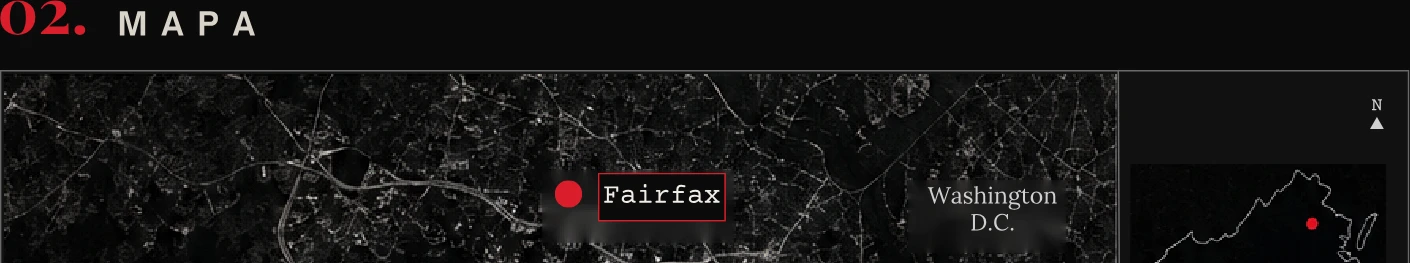
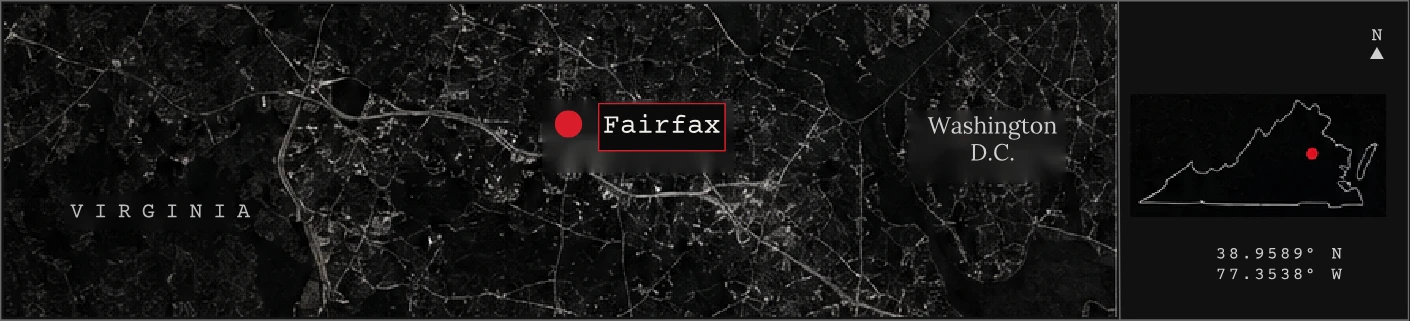
fix(banfield): use single PDF map panel instead of split figures.
Extract fig-mapa as one asset and publish one map block in the dossier reader.

diff --git a/scripts/test-banfield-html-figures.ts b/scripts/test-banfield-html-figures.ts
@@ -12,8 +12,8 @@ const assetsDir = path.join(
   "assets",
 );
 
-/** Crop v7: map-main ~908×349 — altura renderizada menor, ainda legível @390 */
-const MOBILE_MAP_MIN_HEIGHT_AT_358 = 130;
+/** Painel mapa único ~1410×321 — panorâmico, altura @358 ainda legível (~82px) */
+const MOBILE_MAP_MIN_HEIGHT_AT_358 = 78;
 /** Largura útil ~358px com bleed -mx-4 @390 viewport */
 const MOBILE_CONTENT_WIDTH = 358;
 
@@ -24,13 +24,12 @@ async function testFigureAssets() {
     "fig-portrait-brendan",
     "fig-portrait-juliana",
   ];
-  for (const id of [...portraitIds, "fig-vitimas", "fig-mapa-main", "fig-mapa-inset"]) {
+  for (const id of [...portraitIds, "fig-vitimas", "fig-mapa"]) {
     const p = path.join(assetsDir, `${id}.webp`);
     assert.ok(fs.existsSync(p), `${id}.webp deve existir`);
   }
 
-  const mapaMainPath = path.join(assetsDir, "fig-mapa-main.webp");
-  const mapaInsetPath = path.join(assetsDir, "fig-mapa-inset.webp");
+  const mapaPath = path.join(assetsDir, "fig-mapa.webp");
 
   for (const id of portraitIds) {
     const meta = await sharp(path.join(assetsDir, `${id}.webp`)).metadata();
@@ -40,25 +39,19 @@ async function testFigureAssets() {
     assert.ok(h >= 200 && h <= 215, `${id} height ${h}`);
   }
 
-  const mapaMain = await sharp(mapaMainPath).metadata();
-  const mapaInset = await sharp(mapaInsetPath).metadata();
-  const mmw = mapaMain.width ?? 0;
-  const mmh = mapaMain.height ?? 0;
-  const miw = mapaInset.width ?? 0;
-  const mih = mapaInset.height ?? 0;
+  const mapa = await sharp(mapaPath).metadata();
+  const mmw = mapa.width ?? 0;
+  const mmh = mapa.height ?? 0;
 
-  assert.ok(mmw >= 880 && mmw <= 930, `fig-mapa-main width ${mmw}`);
-  assert.ok(mmh >= 335 && mmh <= 365, `fig-mapa-main height ${mmh}`);
-  const mainRenderedH = MOBILE_CONTENT_WIDTH / (mmw / mmh);
+  assert.ok(mmw >= 1350 && mmw <= 1450, `fig-mapa width ${mmw}`);
+  assert.ok(mmh >= 300 && mmh <= 350, `fig-mapa height ${mmh}`);
+  const renderedH = MOBILE_CONTENT_WIDTH / (mmw / mmh);
   assert.ok(
-    mainRenderedH >= MOBILE_MAP_MIN_HEIGHT_AT_358 - 0.5,
-    `fig-mapa-main rendered height @${MOBILE_CONTENT_WIDTH}px = ${mainRenderedH.toFixed(1)} (need ≥${MOBILE_MAP_MIN_HEIGHT_AT_358})`,
+    renderedH >= MOBILE_MAP_MIN_HEIGHT_AT_358 - 0.5,
+    `fig-mapa rendered height @${MOBILE_CONTENT_WIDTH}px = ${renderedH.toFixed(1)} (need ≥${MOBILE_MAP_MIN_HEIGHT_AT_358})`,
   );
 
-  assert.ok(miw >= 650 && miw <= 780, `fig-mapa-inset width ${miw}`);
-  assert.ok(mih >= 400 && mih <= 490, `fig-mapa-inset height ${mih}`);
-
-  const { data, info } = await sharp(mapaMainPath).raw().toBuffer({ resolveWithObject: true });
+  const { data, info } = await sharp(mapaPath).raw().toBuffer({ resolveWithObject: true });
   const w = info.width ?? 0;
   const h = info.height ?? 0;
   const scanRows = Math.min(100, Math.floor(h * 0.25));
@@ -82,7 +75,7 @@ async function testFigureAssets() {
   assert.equal(
     timelineBleedRow,
     null,
-    `fig-mapa-main não deve incluir vermelho «03» na faixa inferior (row=${timelineBleedRow})`,
+    `fig-mapa não deve incluir vermelho «03» na faixa inferior (row=${timelineBleedRow})`,
   );
 }
 

diff --git a/scripts/dossier-bootstrap-banfield-document.ts b/scripts/dossier-bootstrap-banfield-document.ts
@@ -38,14 +38,9 @@ const ASSETS: { id: string; localRel: string; alt: string }[] = [
     alt: "Juliana Magalhães.",
   },
   {
-    id: "fig-mapa-main",
-    localRel: "private/dossiers/documents/familia-banfield/assets/fig-mapa-main.webp",
-    alt: "Mapa satélite de Fairfax e Washington D.C.",
-  },
-  {
-    id: "fig-mapa-inset",
-    localRel: "private/dossiers/documents/familia-banfield/assets/fig-mapa-inset.webp",
-    alt: "Inset de Virgínia e coordenadas de Fairfax.",
+    id: "fig-mapa",
+    localRel: "private/dossiers/documents/familia-banfield/assets/fig-mapa.webp",
+    alt: "Mapa de Fairfax, Virgínia e Washington D.C.",
   },
 ];
 

diff --git a/src/lib/dossier/processing-config.ts b/src/lib/dossier/processing-config.ts
@@ -361,19 +361,13 @@ export const BANFIELD_HTML_FIGURE_CROPS: HtmlFigureCrop[] = [
     yEnd: 0.36,
   },
   {
-    assetId: "fig-mapa-main",
+    /** Painel 02 MAPA inteiro (satélite + inset Virgínia), como no PDF. */
+    assetId: "fig-mapa",
     xStart: 0.02,
-    xEnd: 0.58,
-    yStart: 0.405,
-    /** Painel Fairfax/DC — termina no limite inferior do mapa, antes da linha / «03» (~908×349) */
-    yEnd: 0.526,
-  },
-  {
-    assetId: "fig-mapa-inset",
-    xStart: 0.55,
     xEnd: 0.985,
-    yStart: 0.36,
-    yEnd: 0.525,
+    yStart: 0.405,
+    yEnd: 0.528,
+    trimBorder: true,
   },
 ];
 

diff --git a/scripts/test-dossier-case-form.ts b/scripts/test-dossier-case-form.ts
@@ -27,7 +27,8 @@ assert.deepEqual(
 assert.equal(form.victims.people[0]!.name, "Christine Banfield");
 assert.equal(form.phases.length, 3, "versoes -> 3 fases (acusação, defesa Brendan, defesa Juliana)");
 assert.equal(form.timeline.entries.length, 6);
-assert.equal(form.map.images.length, 2);
+assert.equal(form.map.images.length, 1);
+assert.equal(form.map.images[0]!.assetId, "fig-mapa");
 assert.ok(form.theories.quote?.includes("invasão"));
 assert.equal(form.extraSections.length, 0);
 
